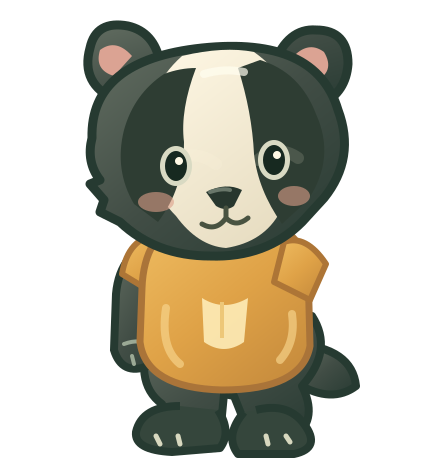
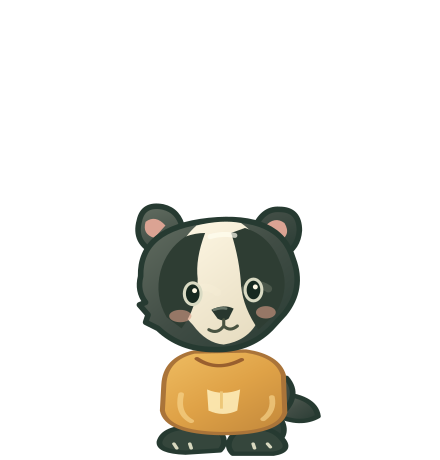
Give Bramble matching little paws and a gentle two-paw toss

diff --git a/src/play-presentation.test.ts b/src/play-presentation.test.ts
@@ -1,5 +1,5 @@
 import { describe, expect, it } from 'vitest';
-import { brambleIdlePose, brambleMotionAllowed, brambleTossPose, brambleArmJoint, brambleBodyPoint, giftReadout, nextBubblePoint } from './play-presentation';
+import { brambleIdlePose, brambleMotionAllowed, brambleTossPose, brambleShoulder, brambleShoulderPoints, bramblePawLength, bramblePawOutline, brambleBodyPoint, giftReadout, nextBubblePoint } from './play-presentation';
 import { launcherPoint, aimCancelRadius } from './aim-controls';
 import { GameEngine } from './engine';
 import { levels } from './levels';
@@ -51,58 +51,81 @@ describe('Bramble’s quiet company', () => {
   });
 });
 
-describe('Bramble at the launcher', () => {
-  it('cups the loaded bubble and follows the aim without moving its origin', () => {
-    expect(brambleTossPose(0)).toEqual({ handX: 195, handY: 711, lean: 0, lift: 0 });
-    expect(brambleTossPose(1).handX).toBeLessThan(195);
-    expect(brambleTossPose(-1).handX).toBeGreaterThan(195);
+describe('Bramble’s two-paw cradle', () => {
+  const ready = { pawAngle: -78, lean: 0, lift: 0, shiftX: 0, scaleY: 1 };
+  const geometry = (aim: number, time?: number, side: 0 | 1 = 0, idleTime?: number, bubbleLoaded = true) => {
+    const pose = brambleTossPose(aim, time, false, bubbleLoaded);
+    const idle = brambleIdlePose(idleTime ?? 0, idleTime === undefined ? 0 : 1);
+    const center = { x: brambleBodyPoint.x + pose.shiftX, y: brambleBodyPoint.y - pose.lift - idle.rise };
+    const width = 92 * idle.scaleX * (1 + (1 - pose.scaleY) * .5), height = 96 * idle.scaleY * pose.scaleY;
+    const angle = idle.angle + pose.lean;
+    const shoulder = brambleShoulder(center, width, height, angle, side);
+    const radians = (angle + (side === 0 ? -180 - pose.pawAngle : pose.pawAngle)) * Math.PI / 180;
+    return { pose, shoulder, paw: { x: shoulder.x + bramblePawLength * Math.cos(radians), y: shoulder.y + bramblePawLength * Math.sin(radians) } };
+  };
+  it('stands centered beneath the unchanged bubble and cups it with matching paws', () => {
+    expect(brambleBodyPoint).toEqual({ x: 195, y: 704 });
+    expect(brambleTossPose(0)).toEqual(ready);
+    const left = geometry(0, undefined, 0), right = geometry(0, undefined, 1);
+    expect(left.paw.x + right.paw.x).toBeCloseTo(launcherPoint.x * 2);
+    expect(left.paw.y).toBeCloseTo(right.paw.y);
+    expect(left.paw.x).toBeGreaterThan(175);
+    expect(left.paw.x).toBeLessThan(181);
+    expect(left.paw.y).toBeGreaterThan(712);
+    expect(left.paw.y).toBeLessThan(716);
+    expect(brambleTossPose(1).pawAngle).toBe(ready.pawAngle);
+    expect(brambleTossPose(-1).pawAngle).toBe(ready.pawAngle);
     expect(launcherPoint).toEqual({ x: 195, y: 690 });
   });
-  it('lifts through release and recovers to the ready pose', () => {
-    expect(brambleTossPose(0, 0)).toEqual(brambleTossPose(0));
-    expect(brambleTossPose(0, 180).handY).toBe(685);
-    expect(brambleTossPose(0, 180).lift).toBe(2.5);
-    expect(brambleTossPose(0, 360).handY).toBeCloseTo(711);
+  it('uses a gentle body crouch, upward toss and settled recovery', () => {
+    expect(brambleTossPose(0, 0)).toEqual(ready);
+    expect(brambleTossPose(0, 35).scaleY).toBe(.96);
+    expect(brambleTossPose(0, 35).lift).toBe(-1.6);
+    expect(brambleTossPose(0, 180)).toEqual({ pawAngle: -83, lean: 0, lift: 3, shiftX: 0, scaleY: 1 });
+    expect(brambleTossPose(0, 300).pawAngle).toBeGreaterThan(-83);
+    expect(brambleTossPose(0, 360, false, false)).toEqual({ ...ready, pawAngle: 65 });
+    expect(brambleTossPose(0, 440, false, true).pawAngle).toBeCloseTo(-6.5);
+    expect(brambleTossPose(0, 520)).toEqual(ready);
+    expect(brambleTossPose(0, undefined, false, false).pawAngle).toBe(65);
   });
-  it('keeps all paw poses clear of the board and Next bubble', () => {
-    for (const angle of [-2, -1.25, 0, 1.25, 2]) for (let time = 0; time <= 360; time += 20) {
-      const pose = brambleTossPose(angle, time);
-      expect(pose.handX).toBeGreaterThanOrEqual(185);
-      expect(pose.handX).toBeLessThanOrEqual(205);
-      expect(pose.handY).toBeGreaterThan(680);
-      expect(pose.handY).toBeLessThanOrEqual(711);
-      expect(pose.handX + 10).toBeLessThan(nextBubblePoint.x - 24);
+  it('keeps matched fixed shoulders and constant short reach throughout every pose', () => {
+    expect(brambleShoulderPoints).toEqual([{ x: 78, y: 178 }, { x: 142, y: 178 }]);
+    expect(bramblePawLength).toBe(16);
+    for (const aim of [-1.25, 0, 1.25]) for (let time = 0; time <= 520; time += 5) for (const side of [0, 1] as const) {
+      const { pose, paw, shoulder } = geometry(aim, time, side, time * 27);
+      expect(Math.hypot(paw.x - shoulder.x, paw.y - shoulder.y)).toBeCloseTo(bramblePawLength, 8);
+      expect(paw.y - 10).toBeGreaterThan(653);
+      expect(paw.x + 10).toBeLessThan(nextBubblePoint.x - 24);
+      expect(paw.x - 10).toBeGreaterThan(150);
+      expect(Math.abs(pose.lean)).toBeLessThanOrEqual(.5);
+    }
+    // Both sides use this one continuous broad outline, with no separate finger or wrist shapes.
+    expect(bramblePawOutline.curves).toHaveLength(5);
+    for (const curve of bramblePawOutline.curves) for (let i = 0; i < curve.length; i += 2) {
+      expect(curve[i]).toBeLessThanOrEqual(23);
+      expect(Math.abs(curve[i + 1])).toBeLessThanOrEqual(6);
     }
   });
-  it('keeps the whole launch gesture still with reduced motion', () => {
-    for (const angle of [-1, 0, 1]) for (const time of [0, 90, 180, 360]) expect(brambleTossPose(angle, time, true)).toEqual({ handX: 195, handY: 711, lean: 0, lift: 0 });
-  });
-});
-
-
-describe('Bramble’s full-body stance', () => {
-  it('stands closer to the bubble, leaving the unchanged launch and Next spaces open', () => {
-    expect(brambleBodyPoint).toEqual({ x: 143, y: 694 });
-    expect(launcherPoint).toEqual({ x: 195, y: 690 });
-    expect(brambleBodyPoint.x + 46).toBeLessThan(nextBubblePoint.x - 24);
-  });
-  it('keeps a bent elbow instead of a straight horizontal lever', () => {
-    const shoulder = { x: 163, y: 704 };
-    const elbow = brambleArmJoint(shoulder, { x: 195, y: 711 });
-    expect(elbow.x).toBeCloseTo(173.24);
-    expect(elbow.y).toBe(722);
-    expect(elbow.y).toBeGreaterThan(shoulder.y);
-    expect(elbow.y).toBeGreaterThan(711);
-  });
-  it('keeps both limb segments short through aim, release and recovery', () => {
-    for (const aim of [-1.25, 0, 1.25]) for (let time = 0; time <= 360; time += 20) {
-      const paw = brambleTossPose(aim, time);
-      const shoulder = { x: 163, y: 704 - paw.lift };
-      const elbow = brambleArmJoint(shoulder, { x: paw.handX, y: paw.handY });
-      expect(Math.hypot(elbow.x - shoulder.x, elbow.y - shoulder.y)).toBeLessThan(27);
-      expect(Math.hypot(paw.handX - elbow.x, paw.handY - elbow.y)).toBeLessThan(36);
-      expect(elbow.y).toBeGreaterThan(700);
-      expect(elbow.y).toBeLessThanOrEqual(724);
+  it('keeps both arms symmetric through anticipation, release and recovery', () => {
+    for (let time = 0; time <= 520; time += 5) {
+      const left = geometry(0, time, 0), right = geometry(0, time, 1);
+      expect(left.shoulder.x + right.shoulder.x).toBeCloseTo(launcherPoint.x * 2);
+      expect(left.shoulder.y).toBeCloseTo(right.shoulder.y);
+      expect(left.paw.x + right.paw.x).toBeCloseTo(launcherPoint.x * 2);
+      expect(left.paw.y).toBeCloseTo(right.paw.y);
     }
+  });
+  it('keeps the relaxed paws above the instructions and outside the Bloom nook', () => {
+    for (let idleTime = 0; idleTime < 20000; idleTime += 50) for (const side of [0, 1] as const) {
+      const { paw } = geometry(0, 360, side, idleTime, false);
+      expect(paw.y + 9).toBeLessThan(758);
+      expect(paw.x - 9).toBeGreaterThan(100);
+    }
+  });
+  it('holds both paws down until the next bubble is loaded', () => {
+    for (const time of [360, 440, 520, 1000]) expect(brambleTossPose(0, time, false, false)).toEqual({ ...ready, pawAngle: 65 });
+  });
+  it('keeps the whole gesture still with reduced motion', () => {
+    for (const angle of [-1, 0, 1]) for (const time of [0, 35, 90, 180, 360]) expect(brambleTossPose(angle, time, true)).toEqual(ready);
   });
 });

diff --git a/src/main.ts b/src/main.ts
@@ -10,7 +10,7 @@ import { consumeBooster, loadSave, recordLoss, recordWin, recordMastery, refillG
 import { restoreActiveRun, type RestoredRun, type RunAction } from './run';
 import type { ShotTrace } from './shot';
 import './style.css';
-import { brambleIdlePose, brambleMotionAllowed, brambleTossPose, brambleArmJoint, brambleBodyPoint, giftReadout, nextBubblePoint } from './play-presentation';
+import { brambleIdlePose, brambleMotionAllowed, brambleTossPose, brambleShoulder, bramblePawOutline, brambleSleeveOutline, brambleBodyPoint, giftReadout, nextBubblePoint } from './play-presentation';
 import { coaching, suggestShot } from './advice';
 import { activityLevel, activityUnlocked, bossPhases, challengeFor, type Activity } from './activities';
 import { recordActivityResult } from './activity-progress';
@@ -380,7 +380,7 @@ class PlayScene extends Phaser.Scene {
     this.brambleThrowMs = undefined;
     this.brambleSize = { width: 92, height: 96 };
     const ground = this.add.graphics();
-    ground.fillStyle(0x7a6845, .11).fillEllipse(brambleBodyPoint.x, 741, 72, 7);
+    ground.fillStyle(0x7a6845, .11).fillEllipse(brambleBodyPoint.x, 752, 62, 7);
     this.brambleArms = this.add.graphics();
     this.bramble = this.add.image(brambleBodyPoint.x, brambleBodyPoint.y, 'bramble-launcher').setDisplaySize(this.brambleSize.width, this.brambleSize.height);
     this.blink = this.add.image(brambleBodyPoint.x, brambleBodyPoint.y, 'bramble-launcher-blink').setDisplaySize(this.brambleSize.width, this.brambleSize.height).setVisible(false);
@@ -718,56 +718,41 @@ class PlayScene extends Phaser.Scene {
     if (allowed) this.brambleClock += step;
     if (this.brambleThrowMs !== undefined && !menuOpen) {
       this.brambleThrowMs += step;
-      if (this.brambleThrowMs >= 360) this.brambleThrowMs = undefined;
+      if (this.brambleThrowMs >= 360 && !this.shooterBubble?.visible) this.brambleThrowMs = 360;
+      else if (this.brambleThrowMs >= 520) this.brambleThrowMs = undefined;
     }
     this.brambleMotion = reducedMotion.matches ? 0 : Phaser.Math.Clamp(this.brambleMotion + (allowed ? step / 220 : -step / 140), 0, 1);
     const idle = brambleIdlePose(this.brambleClock, this.brambleMotion);
-    const toss = brambleTossPose(this.aimAngle, this.brambleThrowMs, reducedMotion.matches || menuOpen);
+    const toss = brambleTossPose(this.aimAngle, this.brambleThrowMs, reducedMotion.matches || menuOpen, this.shooterBubble?.visible ?? true);
     const angle = idle.angle + toss.lean;
-    const center = { x: brambleBodyPoint.x, y: brambleBodyPoint.y - idle.rise - toss.lift };
-    const width = this.brambleSize.width * idle.scaleX;
-    const height = this.brambleSize.height * idle.scaleY;
+    const center = { x: brambleBodyPoint.x + toss.shiftX, y: brambleBodyPoint.y - idle.rise - toss.lift };
+    const width = this.brambleSize.width * idle.scaleX * (1 + (1 - toss.scaleY) * .5);
+    const height = this.brambleSize.height * idle.scaleY * toss.scaleY;
     for (const image of [this.bramble, this.blink]) image.setPosition(center.x, center.y).setAngle(angle).setDisplaySize(width, height);
     this.blink.setVisible(allowed && idle.blink);
     this.bramble.setVisible(!this.blink.visible);
-    const shoulder = (x: number, y: number) => {
-      const radians = angle * Math.PI / 180;
-      const dx = (x - 110) * width / 220, dy = (y - 115) * height / 230;
-      return { x: center.x + dx * Math.cos(radians) - dy * Math.sin(radians), y: center.y + dx * Math.sin(radians) + dy * Math.cos(radians) };
-    };
     const arms = this.brambleArms;
-    arms.clear();
-    const from = shoulder(157, 139);
-    const paw = { x: toss.handX, y: toss.handY };
-    const bend = brambleArmJoint(from, paw);
-    // Soft curved silhouettes, rather than the old two straight lever segments.
-    const shape = (path: Phaser.Curves.Path, color: number, outline: number, lineWidth = 1.7) => {
-      const points = path.getPoints(12);
+    arms.clear().setPosition(0, 0).setAngle(0);
+    const shape = (outline: typeof bramblePawOutline | typeof brambleSleeveOutline, from: { x: number; y: number }, pawAngle: number, color: number, edge: number, lineWidth: number) => {
+      const radians = pawAngle * Math.PI / 180;
+      const point = (x: number, y: number) => ({ x: from.x + x * Math.cos(radians) - y * Math.sin(radians), y: from.y + x * Math.sin(radians) + y * Math.cos(radians) });
+      const start = point(outline.start[0], outline.start[1]);
+      const path = new Phaser.Curves.Path(start.x, start.y);
+      for (const curve of outline.curves) {
+        const end = point(curve[0], curve[1]), first = point(curve[2], curve[3]), second = point(curve[4], curve[5]);
+        path.cubicBezierTo(end.x, end.y, first.x, first.y, second.x, second.y);
+      }
+      const points = path.getPoints(16);
       arms.fillStyle(color).fillPoints(points, true);
-      arms.lineStyle(lineWidth, outline).strokePoints(points, true);
+      arms.lineStyle(lineWidth, edge).strokePoints(points, true);
     };
-    const upper = new Phaser.Curves.Path(from.x - 5, from.y - 4)
-      .cubicBezierTo(bend.x - 2, bend.y + 5, from.x - 7, from.y + 5, bend.x - 10, bend.y + 3)
-      .cubicBezierTo(bend.x + 4, bend.y - 6, bend.x + 6, bend.y + 7, bend.x + 7, bend.y - 1)
-      .cubicBezierTo(from.x - 5, from.y - 4, from.x + 10, from.y + 4, from.x + 7, from.y - 5);
-    shape(upper, 0x485647, 0x293c31);
-    const forearm = new Phaser.Curves.Path(bend.x - 3, bend.y - 5)
-      .cubicBezierTo(paw.x - 1, paw.y - 4, bend.x + 4, bend.y - 6, paw.x - 10, paw.y - 4)
-      .cubicBezierTo(paw.x + 10, paw.y, paw.x + 4, paw.y - 7, paw.x + 11, paw.y - 5)
-      .cubicBezierTo(paw.x - 6, paw.y + 5, paw.x + 11, paw.y + 6, paw.x + 1, paw.y + 6)
-      .cubicBezierTo(bend.x - 3, bend.y + 5, paw.x - 13, paw.y + 8, bend.x + 3, bend.y + 8)
-      .cubicBezierTo(bend.x - 3, bend.y - 5, bend.x - 7, bend.y + 3, bend.x - 7, bend.y - 2);
-    shape(forearm, 0x485647, 0x293c31);
-    // A short shirt sleeve overlaps the shoulder, anchoring the arm to the torso.
-    const sleeve = new Phaser.Curves.Path(from.x - 6, from.y - 6)
-      .cubicBezierTo(from.x + 11, from.y + 4, from.x + 2, from.y - 10, from.x + 8, from.y - 6)
-      .cubicBezierTo(from.x - 1, from.y + 7, from.x + 8, from.y + 8, from.x + 1, from.y + 8)
-      .cubicBezierTo(from.x - 6, from.y - 6, from.x - 5, from.y + 3, from.x - 7, from.y);
-    shape(sleeve, 0xe3a94f, 0xad7738, 1.2);
-    arms.lineStyle(1.5, 0x82917a, .6).lineBetween(bend.x + 3, bend.y + 1, paw.x - 9, paw.y + 1);
-    arms.lineStyle(1.2, 0xd7dbc1, .9)
-      .lineBetween(paw.x - 1, paw.y - 2, paw.x, paw.y + 1)
-      .lineBetween(paw.x + 4, paw.y - 2, paw.x + 5, paw.y + 1);
+    // Two matching, rounded forepaws cradle the orb. Both stay the same short length.
+    for (const side of [0, 1] as const) {
+      const from = brambleShoulder(center, width, height, angle, side);
+      const pawAngle = angle + (side === 0 ? -180 - toss.pawAngle : toss.pawAngle);
+      shape(bramblePawOutline, from, pawAngle, 0x485647, 0x293c31, 1.6);
+      shape(brambleSleeveOutline, from, pawAngle, 0xe3a94f, 0xad7738, 1.2);
+    }
 
   }
 

diff --git a/src/play-presentation.ts b/src/play-presentation.ts
@@ -1,6 +1,6 @@
 import { boosters, boosterById, type BoosterId } from './boosters';
 /** Presentation only: the shot origin and every board coordinate stay unchanged. */
-export const brambleBodyPoint = { x: 143, y: 694 };
+export const brambleBodyPoint = { x: 195, y: 704 };
 export const nextBubblePoint = { x: 314, y: 706 };
 export function giftReadout(inventory: Record<BoosterId, number>, unlocked: number, allowed: boolean, armed?: BoosterId): { text: string; label: string; equipped: boolean } {
   if (!allowed) return { text: 'Off', label: 'Open gifts, packed away for this challenge', equipped: false };
@@ -22,17 +22,44 @@ export function brambleIdlePose(elapsedMs: number, strength = 1): { rise: number
     scaleX: 1 - breath * .012, scaleY: 1 + breath * .03, blink: amount > .95 && phase > 4700 && phase < 4840 };
 }
 
-/** Visual paw motion only: the real launch point remains (195, 690). */
-export function brambleTossPose(angle: number, elapsedMs?: number, reducedMotion = false): { handX: number; handY: number; lean: number; lift: number } {
-  if (reducedMotion) return { handX: 195, handY: 711, lean: 0, lift: 0 };
-  const aim = Math.max(-1.25, Math.min(1.25, angle));
-  const release = elapsedMs === undefined ? 0 : Math.sin(Math.PI * Math.max(0, Math.min(1, elapsedMs / 360)));
-  return { handX: 195 - Math.sin(aim) * 10 + Math.sin(aim) * release * 6,
-    handY: 711 - Math.abs(Math.sin(aim)) * 4 - release * 26,
-    lean: aim * .7 + release * 3.5, lift: release * 2.5 };
+/** Two matched, short forepaws rotate at fixed shoulders without ever stretching. */
+export const bramblePawLength = 16;
+export const brambleShoulderPoints = [{ x: 78, y: 178 }, { x: 142, y: 178 }] as const;
+// Local cubic silhouettes shared by the live renderer and the pose-review script.
+// Each tuple is endpoint, first control point, second control point.
+export const bramblePawOutline = {
+  start: [-3, -4] as const,
+  curves: [[13, -5, 1, -6, 7, -6], [23, 0, 20, -6, 23, -4],
+    [13, 5, 23, 4, 20, 6], [-3, 4, 7, 6, 1, 6], [-3, -4, -6, 3, -6, -3]] as const
+};
+export const brambleSleeveOutline = {
+  start: [-5, -6] as const,
+  curves: [[5, -6, -2, -8, 3, -8], [7, 5, 8, -4, 9, 3],
+    [-5, 6, 3, 8, -3, 8], [-5, -6, -7, 3, -7, -3]] as const
+};
+const smooth = (value: number) => { const t = Math.max(0, Math.min(1, value)); return t * t * (3 - 2 * t); };
+/** Presentation only: the bubble still leaves the real launch point at (195, 690). */
+export function brambleTossPose(angle: number, elapsedMs?: number, reducedMotion = false, bubbleLoaded = true): { pawAngle: number; lean: number; lift: number; shiftX: number; scaleY: number } {
+  const aim = reducedMotion ? 0 : Math.max(-1.25, Math.min(1.25, angle));
+  const readyAngle = -78, restingAngle = 65;
+  if (reducedMotion || elapsedMs === undefined) return { pawAngle: reducedMotion || bubbleLoaded ? readyAngle : restingAngle, lean: aim * .4 || 0, lift: 0, shiftX: aim * .5, scaleY: 1 };
+  const time = Math.max(0, elapsedMs);
+  const anticipation = time < 70 ? Math.sin(Math.PI * time / 70) : 0;
+  const release = time < 70 ? 0 : time < 160 ? smooth((time - 70) / 90) : 1 - smooth((time - 200) / 160);
+  const pawAngle = time <= 200 ? readyAngle + anticipation * 3 - release * 5
+    : time < 360 ? -83 + (restingAngle + 83) * smooth((time - 200) / 160)
+    : bubbleLoaded ? restingAngle + (readyAngle - restingAngle) * smooth((time - 360) / 160) : restingAngle;
+  return { pawAngle,
+    lean: aim * .4,
+    lift: -anticipation * 1.6 + release * 3,
+    shiftX: aim * .5, scaleY: 1 - anticipation * .04 };
 }
 
-/** A compact bent elbow keeps Bramble’s paw attached without a rigid reach. */
-export function brambleArmJoint(shoulder: { x: number; y: number }, paw: { x: number; y: number }): { x: number; y: number } {
-  return { x: shoulder.x + (paw.x - shoulder.x) * .32, y: shoulder.y + 18 - Math.max(0, 711 - paw.y) * .45 };
+/** The same body-space shoulder is used for every pose, including breathing and lean. */
+export function brambleShoulder(center: { x: number; y: number }, width: number, height: number, angle: number, side: 0 | 1): { x: number; y: number } {
+  const radians = angle * Math.PI / 180;
+  const dx = (brambleShoulderPoints[side].x - 110) * width / 220;
+  const dy = (brambleShoulderPoints[side].y - 115) * height / 230;
+  return { x: center.x + dx * Math.cos(radians) - dy * Math.sin(radians),
+    y: center.y + dx * Math.sin(radians) + dy * Math.cos(radians) };
 }

diff --git a/README.md b/README.md
@@ -94,4 +94,4 @@ Bramble now keeps you company with a tiny breathing motion, gentle sway and occa
 
 The launcher companion now has a larger, full-body silhouette and articulated paws. Bramble cups the loaded bubble, follows your aiming direction, lifts his paw as you release, then returns to his ready pose. His visible motion never moves the real launch point, collision grid or next-bubble queue. Reduced motion keeps the companion in a still ready pose.
 
-A focused character pass gives the launcher Bramble a rounded full-body stance, separate feet, readable eyes and a compact jointed throwing arm. A short sleeve and curved furry paw keep the bubble visibly connected to him; aim, toss and recovery still affect artwork only.
+A focused character pass gives the launcher Bramble a rounded full-body stance, separate feet and readable eyes. Two matching short, rounded forepaws cradle the bubble above him, keeping his eyes and smile visible. Each stays attached to a fixed shirt shoulder with constant reach and no finger marks. A little whole-body crouch prepares the toss, a small hop lifts both paws, and a soft recovery lowers his paws beside his shirt before he cups the next loaded bubble. Every pose affects artwork only.
